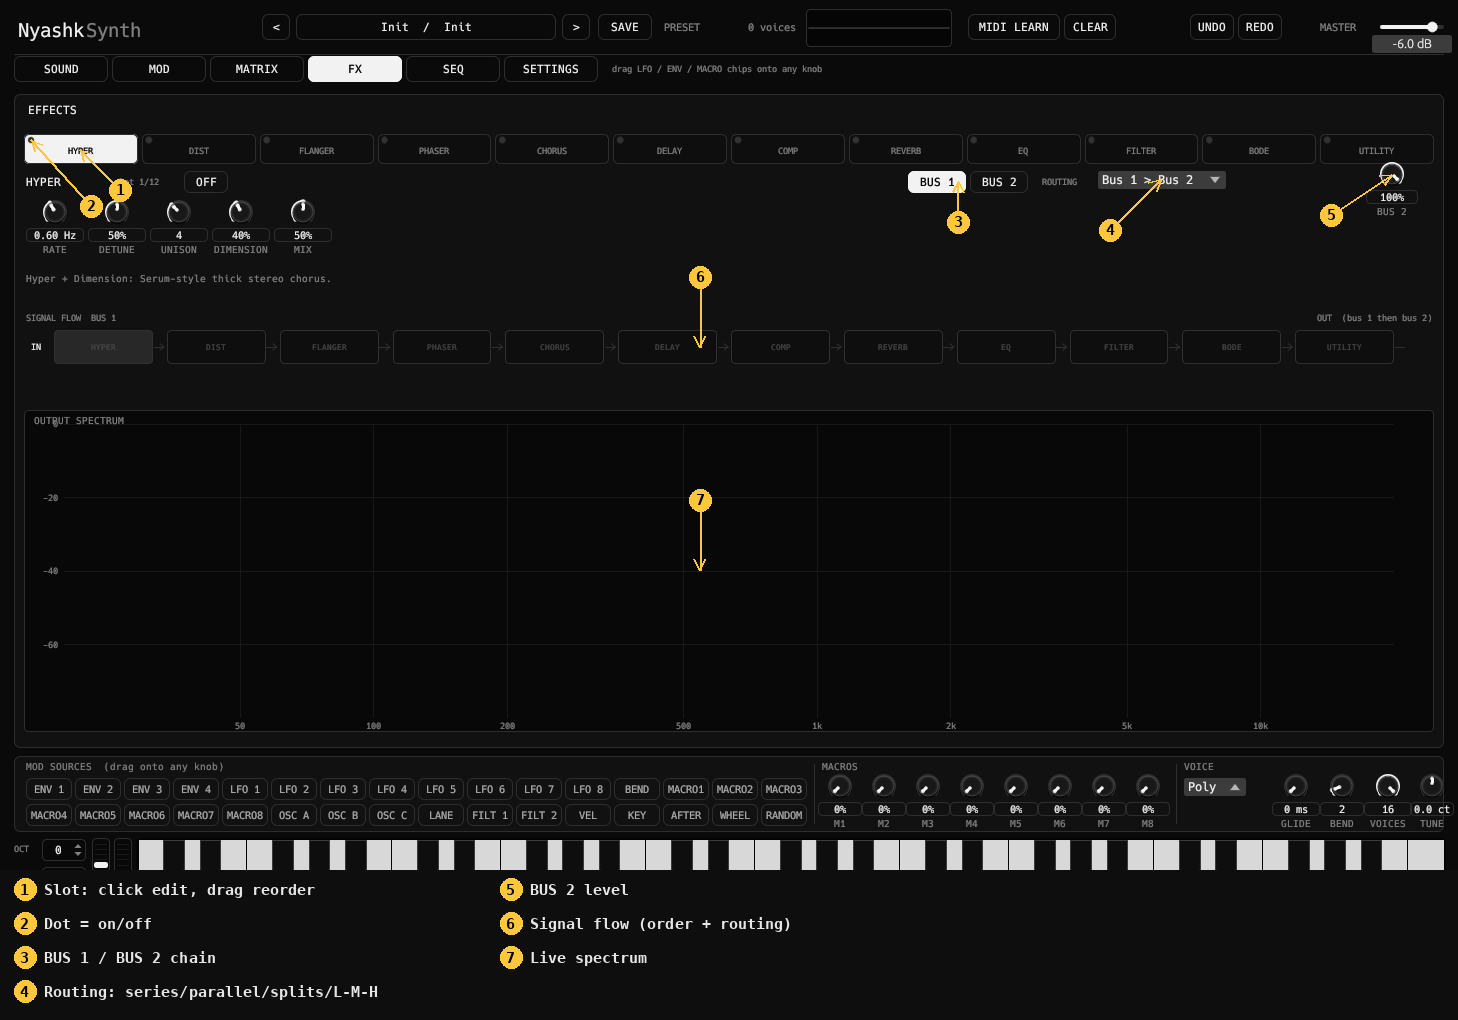
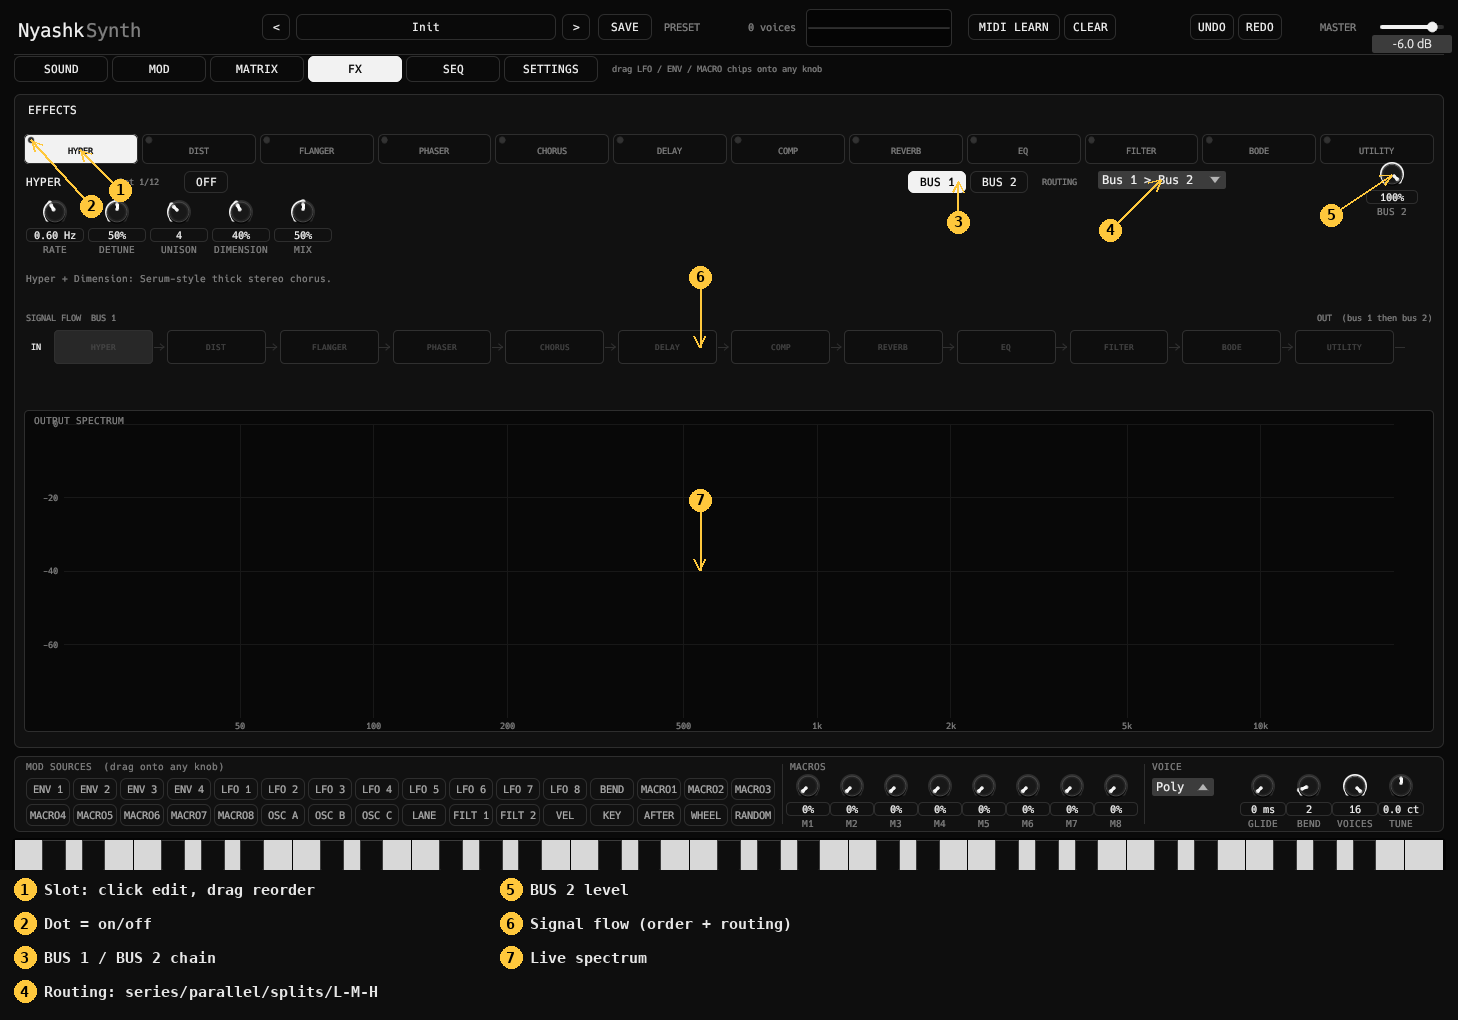
v1.0.3: hide on-screen wheels by default, interface alignment pass, docs
Claude-Session: https://claude.ai/code/session_01EndxvcXZsUxUuBFyUHCgZr

Changed region(s): [[0.0, 0.7294, 1.0, 0.851], [0.2778, 0.0, 0.3086, 0.0304]]

diff --git a/plugins/nyashksynth/src/editor.rs b/plugins/nyashksynth/src/editor.rs
@@ -507,8 +507,12 @@ pub fn create(params: Arc<SynthParams>, meters: Arc<Meters>, shared: Arc<Shared>
 
                 // ================================================= bottom strip: sources, macros, voice
                 strip(ui, setter, p, st, rect(14.0, 724.0, 1430.0, 76.0), now);
-                wheels_panel(ui, setter, p, &meters, rect(14.0, 806.0, 118.0, 54.0));
-                keyboard(ui, &meters, rect(138.0, 808.0, 1306.0, 50.0));
+                if p.show_wheels.value() {
+                    wheels_panel(ui, setter, p, &meters, rect(14.0, 806.0, 118.0, 54.0));
+                    keyboard(ui, &meters, rect(138.0, 808.0, 1306.0, 50.0));
+                } else {
+                    keyboard(ui, &meters, rect(14.0, 808.0, 1430.0, 50.0));
+                }
 
                 // ================================================= overlays
                 learn_end(p, st, &meters, now);
@@ -1762,8 +1766,8 @@ fn filter_panel(ui: &mut Ui, setter: &ParamSetter, p: &SynthParams, st: &mut Gui
     panel(ui, r, "04", "FILTER");
     for k in 0..2 {
         let on = if k == 0 { p.f1.fl_on.value() } else { p.f2.fl_on.value() };
-        let lbl = format!("{}{}", k + 1, if on { "" } else { "-" });
-        if pill_tip(ui, Rect::from_min_size(Pos2::new(r.left() + 84.0 + 28.0 * k as f32, r.top() + 5.0), Vec2::new(26.0, 24.0)), &lbl, fi == k, "Edit filter 1 / filter 2") {
+        let lbl = format!("{}{}", k + 1, if on { "" } else { "\u{b7}" });
+        if pill_tip(ui, Rect::from_min_size(Pos2::new(r.left() + 112.0 + 30.0 * k as f32, r.top() + 5.0), Vec2::new(28.0, 24.0)), &lbl, fi == k, "Edit filter 1 / filter 2") {
             st.filt_sel = k;
         }
     }
@@ -1771,7 +1775,7 @@ fn filter_panel(ui: &mut Ui, setter: &ParamSetter, p: &SynthParams, st: &mut Gui
     if pill_tip(ui, Rect::from_min_size(Pos2::new(r.right() - 108.0, r.top() + 6.0), Vec2::new(48.0, 22.0)), "SER", p.fl_serial.value(), "Series: filter 1 feeds filter 2 (off = two parallel filters, sources are routed with the ROUTE buttons)") {
         set_b(setter, &p.fl_serial, !p.fl_serial.value());
     }
-    enum_combo(ui, setter, &fl.fl_type, &format!("filter_type{fi}"), Rect::from_min_size(Pos2::new(r.left() + 144.0, r.top() + 5.0), Vec2::new(r.width() - 260.0, 24.0)));
+    enum_combo(ui, setter, &fl.fl_type, &format!("filter_type{fi}"), Rect::from_min_size(Pos2::new(r.left() + 176.0, r.top() + 5.0), Vec2::new(r.width() - 176.0 - 118.0, 24.0)));
     let d = Rect::from_min_size(Pos2::new(r.left() + 12.0, r.top() + 36.0), Vec2::new(r.width() - 24.0, 150.0));
     let is_custom = fl.fl_type.value() == FilterType::Custom;
     // drag in the graph: left / right = cutoff, up / down = resonance
@@ -1878,11 +1882,11 @@ fn sub_noise_panel(ui: &mut Ui, setter: &ParamSetter, p: &SynthParams, _shared: 
     let y = r.top();
     ui.painter().text(Pos2::new(x + 14.0, y + 44.0), Align2::LEFT_CENTER, "SUB", mono(10.5), WHITE);
     on_pill(ui, setter, &p.sub_on, Rect::from_min_size(Pos2::new(x + 52.0, y + 33.0), Vec2::new(40.0, 22.0)), "Sub oscillator on/off");
-    enum_combo(ui, setter, &p.sub_wave, "sub_wave", Rect::from_min_size(Pos2::new(x + 100.0, y + 32.0), Vec2::new(100.0, 24.0)));
-    knob_s(ui, setter, &p.sub_oct, "OCT", cell(x + 206.0, y + 28.0, 46.0), "Sub octave offset", false);
+    enum_combo(ui, setter, &p.sub_wave, "sub_wave", Rect::from_min_size(Pos2::new(x + 100.0, y + 32.0), Vec2::new(70.0, 24.0)));
+    knob_s(ui, setter, &p.sub_oct, "OCT", cell(x + 176.0, y + 28.0, 58.0), "Sub octave offset", false);
     mdst(ModDst::SubLevel);
-    knob_s(ui, setter, &p.sub_level, "LEVEL", cell(x + 250.0, y + 28.0, 46.0), "Sub level", false);
-    knob_s(ui, setter, &p.sub_pan, "PAN", cell(x + 296.0, y + 28.0, 46.0), "Sub stereo position", true);
+    knob_s(ui, setter, &p.sub_level, "LEVEL", cell(x + 234.0, y + 28.0, 58.0), "Sub level", false);
+    knob_s(ui, setter, &p.sub_pan, "PAN", cell(x + 292.0, y + 28.0, 58.0), "Sub stereo position", true);
     ui.painter().hline(x + 12.0..=r.right() - 12.0, y + 98.0, Stroke::new(1.0_f32, LINE));
     ui.painter().text(Pos2::new(x + 14.0, y + 116.0), Align2::LEFT_CENTER, "NOISE", mono(10.5), WHITE);
     enum_combo(ui, setter, &p.noise_type, "noise_type", Rect::from_min_size(Pos2::new(x + 70.0, y + 104.0), Vec2::new(130.0, 24.0)));
@@ -2091,7 +2095,7 @@ fn env_tab(ui: &mut Ui, setter: &ParamSetter, p: &SynthParams, st: &mut Gui, c: 
             ui.painter().text(Pos2::new(x + 58.0, c.top() + 6.0), Align2::LEFT_CENTER, "(AMP)", mono(9.5), DIM);
         }
         let _ = name;
-        if pill_tip(ui, Rect::from_min_size(Pos2::new(x + w - 74.0, c.top() - 3.0), Vec2::new(74.0, 18.0)), "INV.LEGATO", e.relegato.value(), "Restart this envelope on every note even in Legato mode (Serum: Invert Legato)") {
+        if pill_tip(ui, Rect::from_min_size(Pos2::new(x + w - 92.0, c.top() - 3.0), Vec2::new(92.0, 18.0)), "INV.LEGATO", e.relegato.value(), "Restart this envelope on every note even in Legato mode (Serum: Invert Legato)") {
             set_b(setter, &e.relegato, !e.relegato.value());
         }
         env_curve(ui, setter, e, Rect::from_min_size(Pos2::new(x, c.top() + 16.0), Vec2::new(w, 86.0)), &format!("envcurve{i}"));
@@ -2388,6 +2392,17 @@ fn settings_tab(ui: &mut Ui, setter: &ParamSetter, p: &SynthParams, meters: &Met
             set_b(setter, &p.midi_out, !on);
         }
     }
+    {
+        let on = p.show_wheels.value();
+        if pill_tip(ui, Rect::from_min_size(Pos2::new(x1 + 120.0, c.top() + 132.0), Vec2::new(150.0, 24.0)), if on { "WHEELS: SHOWN" } else { "WHEELS: HIDDEN" }, on, "Show the on-screen OCT / SEMI spinners and pitch / mod wheels left of the keyboard. Off = the keyboard gets the full width (your MIDI keyboard has its own).") {
+            set_b(setter, &p.show_wheels, !on);
+        }
+        ui.painter().text(Pos2::new(x1, c.top() + 208.0), Align2::LEFT_CENTER, "KEYBOARD", mono(9.5), DIM);
+        ui.painter().text(Pos2::new(x1 + 74.0, c.top() + 208.0), Align2::LEFT_CENTER, "OCT", mono(9.5), DIM);
+        spinner(ui, setter, &p.kb_octave, Rect::from_min_size(Pos2::new(x1 + 104.0, c.top() + 197.0), Vec2::new(54.0, 22.0)), "kb_oct_s", "Keyboard octave shift (affects MIDI input and the on-screen keys)");
+        ui.painter().text(Pos2::new(x1 + 172.0, c.top() + 208.0), Align2::LEFT_CENTER, "SEMI", mono(9.5), DIM);
+        spinner(ui, setter, &p.kb_transpose, Rect::from_min_size(Pos2::new(x1 + 206.0, c.top() + 197.0), Vec2::new(54.0, 22.0)), "kb_semi_s", "Transpose in semitones (affects MIDI input and the on-screen keys)");
+    }
     // key lock
     let kt = c.top() + 250.0;
     ui.painter().text(Pos2::new(x0, kt - 14.0), Align2::LEFT_CENTER, "KEY LOCK", mono(10.5), WHITE);
@@ -2400,7 +2415,7 @@ fn settings_tab(ui: &mut Ui, setter: &ParamSetter, p: &SynthParams, meters: &Met
         }
     }
     ui.painter().text(Pos2::new(x0, kt + 66.0), Align2::LEFT_TOP, "Key lock moves every incoming note to the nearest note of the scale,\nso wrong keys can not happen (also feeds the arpeggiator and clips).", mono(8.5), DIM);
-    ui.painter().text(Pos2::new(x1, c.top() + 168.0), Align2::LEFT_TOP, "Transpose / octave: use the OCT and SEMI spinners left of the keyboard.\nMod wheel = CC1, sustain = CC64, aftertouch and pitch bend are always on.\nCtrl+Z / Ctrl+Y: undo / redo.  Right-click a knob\nmodulation ring: remove it.", mono(8.5), DIM);
+    ui.painter().text(Pos2::new(x1, c.top() + 232.0), Align2::LEFT_TOP, "Transpose / octave: the OCT and SEMI spinners above.\nMod wheel = CC1, sustain = CC64, aftertouch and pitch bend are always on.\nCtrl+Z / Ctrl+Y: undo / redo.  Right-click a knob\nmodulation ring: remove it.", mono(8.5), DIM);
     // ---------------- MIDI bindings list
     let x2 = c.left() + 704.0;
     head(ui, x2, "MIDI BINDINGS (learned CCs)");
@@ -2484,7 +2499,7 @@ fn lfo_tab(ui: &mut Ui, setter: &ParamSetter, p: &SynthParams, shared: &Shared, 
         let lnow = ui.input(|i| i.time);
         source_chip(ui, setter, p, st, Rect::from_min_size(Pos2::new(x, c.top() - 1.0), Vec2::new(48.0, 24.0)), &format!("LFO {}", i + 1), lfo_src(i), "Drag this onto any knob", lnow);
         enum_combo(ui, setter, &l.shape, &format!("lfoshape{i}"), Rect::from_min_size(Pos2::new(x + 52.0, c.top() - 1.0), Vec2::new(w - 52.0, 24.0)));
-        let d = Rect::from_min_size(Pos2::new(x, c.top() + 28.0), Vec2::new(w, 66.0));
+        let d = Rect::from_min_size(Pos2::new(x, c.top() + 28.0), Vec2::new(w, 92.0));
         let shape = l.shape.value();
         let curve = shared.lfo[i].get();
         if shape == LfoShape::Custom {
@@ -2549,7 +2564,7 @@ fn lfo_tab(ui: &mut Ui, setter: &ParamSetter, p: &SynthParams, shared: &Shared, 
                 shared.lfo[i].set(Some(Arc::new(cv)));
             }
         }
-        let ky = c.top() + 98.0;
+        let ky = c.top() + 128.0;
         let kw = w / 3.0;
         if l.sync.value() {
             ui.painter().text(Pos2::new(x + kw * 0.5, ky + 7.0), Align2::CENTER_CENTER, "RATE", mono(9.5), DIM);
@@ -2559,18 +2574,18 @@ fn lfo_tab(ui: &mut Ui, setter: &ParamSetter, p: &SynthParams, shared: &Shared, 
         }
         knob_s(ui, setter, &l.rise, "RISE", cell(x + kw, ky, kw), "Fade-in time (needs TRIG)", false);
         knob_s(ui, setter, &l.smooth, "SMOOTH", cell(x + kw * 2.0, ky, kw), "Smooths the LFO output", false);
-        let ky2 = ky + 70.0;
+        let ky2 = ky + 74.0;
         knob_s(ui, setter, &l.delay, "DELAY", cell(x, ky2, kw), "Wait this long after the note starts before the LFO begins (needs TRIG)", false);
         knob_s(ui, setter, &l.phase, "PHASE", cell(x + kw, ky2, kw), "Start phase of the LFO", false);
         let pw = kw - 2.0;
         let px = x + kw * 2.0 + 1.0;
-        if pill_tip(ui, Rect::from_min_size(Pos2::new(px, ky2 + 2.0), Vec2::new(pw, 20.0)), "SYNC", l.sync.value(), "Lock the rate to the host tempo") {
+        if pill_tip(ui, Rect::from_min_size(Pos2::new(px, ky2 + 4.0), Vec2::new(pw, 18.0)), "SYNC", l.sync.value(), "Lock the rate to the host tempo") {
             set_b(setter, &l.sync, !l.sync.value());
         }
-        if pill_tip(ui, Rect::from_min_size(Pos2::new(px, ky2 + 24.0), Vec2::new(pw, 20.0)), "TRIG", l.trig.value(), "Restart the LFO on every note (off = free running, shared by all notes)") {
+        if pill_tip(ui, Rect::from_min_size(Pos2::new(px, ky2 + 24.0), Vec2::new(pw, 18.0)), "TRIG", l.trig.value(), "Restart the LFO on every note (off = free running, shared by all notes)") {
             set_b(setter, &l.trig, !l.trig.value());
         }
-        if pill_tip(ui, Rect::from_min_size(Pos2::new(px, ky2 + 46.0), Vec2::new(pw, 20.0)), "1-SHOT", l.oneshot.value(), "Play a single cycle and hold the end value (needs TRIG)") {
+        if pill_tip(ui, Rect::from_min_size(Pos2::new(px, ky2 + 44.0), Vec2::new(pw, 18.0)), "1-SHOT", l.oneshot.value(), "Play a single cycle and hold the end value (needs TRIG)") {
             set_b(setter, &l.oneshot, !l.oneshot.value());
         }
     }
@@ -2881,7 +2896,7 @@ fn strip(ui: &mut Ui, setter: &ParamSetter, p: &SynthParams, st: &mut Gui, r: Re
         ("WHEEL", ModSrc::ModWheel, "Mod wheel (CC1)"),
         ("RANDOM", ModSrc::Random, "Random value per note"),
     ];
-    let cw = 46.0;
+    let cw = 44.0;
     for (n, (label, src, tip)) in chips.iter().enumerate() {
         let (row, col) = (n / 16, n % 16);
         let rr = Rect::from_min_size(Pos2::new(r.left() + 12.0 + (cw + 3.0) * col as f32, r.top() + 22.0 + 26.0 * row as f32), Vec2::new(cw, 22.0));
@@ -2899,10 +2914,10 @@ fn strip(ui: &mut Ui, setter: &ParamSetter, p: &SynthParams, st: &mut Gui, r: Re
     ui.painter().vline(vx - 4.0, r.top() + 8.0..=r.bottom() - 8.0, Stroke::new(1.0_f32, LINE));
     ui.painter().text(Pos2::new(vx + 4.0, r.top() + 10.0), Align2::LEFT_CENTER, "VOICE", mono(9.5), DIM);
     enum_combo(ui, setter, &p.vmode, "vmode", Rect::from_min_size(Pos2::new(vx + 4.0, r.top() + 22.0), Vec2::new(84.0, 24.0)));
-    knob_s(ui, setter, &p.glide, "GLIDE", cell(vx + 92.0, r.top() + 14.0, 48.0), "Portamento time", false);
-    knob_s(ui, setter, &p.bend, "BEND", cell(vx + 140.0, r.top() + 14.0, 44.0), "Pitch-bend range in semitones", false);
-    knob_s(ui, setter, &p.poly, "VOICES", cell(vx + 184.0, r.top() + 14.0, 48.0), "Maximum number of simultaneous notes", false);
-    knob_s(ui, setter, &p.tune, "TUNE", cell(vx + 230.0, r.top() + 14.0, 44.0), "Master tune in cents", true);
+    knob_s(ui, setter, &p.glide, "GLIDE", cell(vx + 92.0, r.top() + 14.0, 46.0), "Portamento time", false);
+    knob_s(ui, setter, &p.bend, "BEND", cell(vx + 138.0, r.top() + 14.0, 46.0), "Pitch-bend range in semitones", false);
+    knob_s(ui, setter, &p.poly, "VOICES", cell(vx + 184.0, r.top() + 14.0, 46.0), "Maximum number of simultaneous notes", false);
+    knob_s(ui, setter, &p.tune, "TUNE", cell(vx + 230.0, r.top() + 14.0, 46.0), "Master tune in cents", true);
 }
 
 #[allow(clippy::too_many_arguments)]

diff --git a/plugins/nyashksynth/src/params.rs b/plugins/nyashksynth/src/params.rs
@@ -1711,6 +1711,8 @@ pub struct SynthParams {
     pub clip_on: BoolParam,
     #[id = "mout"]
     pub midi_out: BoolParam,
+    #[id = "swh"]
+    pub show_wheels: BoolParam,
     #[id = "clp_sl"]
     pub clip_sel: IntParam,
     #[id = "clp_dv"]
@@ -1822,6 +1824,7 @@ impl Default for SynthParams {
             clips: Arc::new(std::sync::Mutex::new(String::new())),
             clip_on: BoolParam::new("Clip On", false),
             midi_out: BoolParam::new("MIDI Out", false),
+            show_wheels: BoolParam::new("Show Wheels", false).non_automatable(),
             clip_sel: IntParam::new("Clip Slot", 1, IntRange::Linear { min: 1, max: 12 }),
             clip_div: EnumParam::new("Clip Step", Div::D16),
             clip_swing: unit_param("Clip Swing", 0.0),

diff --git a/docs/MANUAL.md b/docs/MANUAL.md
@@ -29,8 +29,9 @@ The mod-source chips, macros, voice settings, keyboard and wheels stay visible o
 6. **TOOLS** (under SUB / NOISE): INIT, RANDOM (a whole new patch), COPY and **HYBRID** (mix the current sound with another preset).
 7. **Mod sources**: drag a chip onto any knob; drag vertically on the knob to set the depth. Right-click the modulation ring to remove it. Besides envelopes, LFOs, macros, velocity, key, wheel, aftertouch and random there are `OSC A/B/C`, `FILT 1/2` (outputs) and `LANE` (clip automation).
 8. **8 macros**: assign them like any other source.
-9. **OCT / SEMI spinners and wheels**: click the arrows, drag, use the mouse wheel; double-click resets. They transpose both MIDI input and the on-screen keys. The pitch wheel springs back, the mod wheel stays where you leave it; both follow your hardware wheels.
-10. **Master**: drag, or double-click and type a dB value.
+9. **Master**: drag, or double-click and type a dB value.
+
+The on-screen OCT / SEMI spinners and pitch / mod wheels are hidden by default (your MIDI keyboard has its own); switch them on with `WHEELS` in SETTINGS. They transpose both MIDI input and the on-screen keys. The pitch wheel springs back, the mod wheel stays where you leave it; both follow your hardware wheels.
 
 ## 2. Effects
 
@@ -126,7 +127,9 @@ Open the **SEQ** page, go to the CLIP SEQUENCER panel and switch **CLIP ON**. Ho
 3. **KEY LOCK**: choose a scale and a root; every incoming note snaps to the nearest scale note (also feeds the arpeggiator and clips, and the STEP tuning mode of the oscillators).
 4. **MIDI channel** (0 = omni), **velocity curve**, **pitch-bend range**, glide.
 5. **MIDI OUT**: send arpeggiator and clip notes to the host.
-6. **MIDI bindings**: every learned CC with its parameter name and an x to remove it.
+6. **WHEELS**: show or hide the on-screen wheels and OCT / SEMI next to the keyboard.
+7. **KEYBOARD OCT / SEMI**: octave and semitone shift of incoming notes and the on-screen keys.
+8. **MIDI bindings**: every learned CC with its parameter name and an x to remove it.
 
 LFOs and envelopes can be dragged onto any knob straight from their title chips in the LFO / ENV tabs, like in Serum.
 

diff --git a/RELEASE_NOTES.md b/RELEASE_NOTES.md
@@ -1,3 +1,9 @@
+# v1.0.3
+
+- **On-screen wheels and OCT / SEMI are hidden by default**, so the keyboard gets the full width. SETTINGS > MIDI / PLAY has a `WHEELS: HIDDEN / SHOWN` switch, and OCT / SEMI spinners now also live there.
+- **Docs:** manual and screenshots updated for the new layout.
+- **Interface alignment pass:** the FILTER title no longer collides with the 1 / 2 tabs, SUB knobs sit on an even grid, the INV.LEGATO pills are no longer clipped, LFO panels use the free space (taller scope, SYNC / TRIG / 1-SHOT lined up with the knob row), the bottom strip fits the window (TUNE was cut off) and its voice knobs are evenly spaced.
+
 # v1.0.2
 
 - **Step tuning mode** for oscillators (click the label under SEMI): moves by steps of the KEY LOCK scale.
